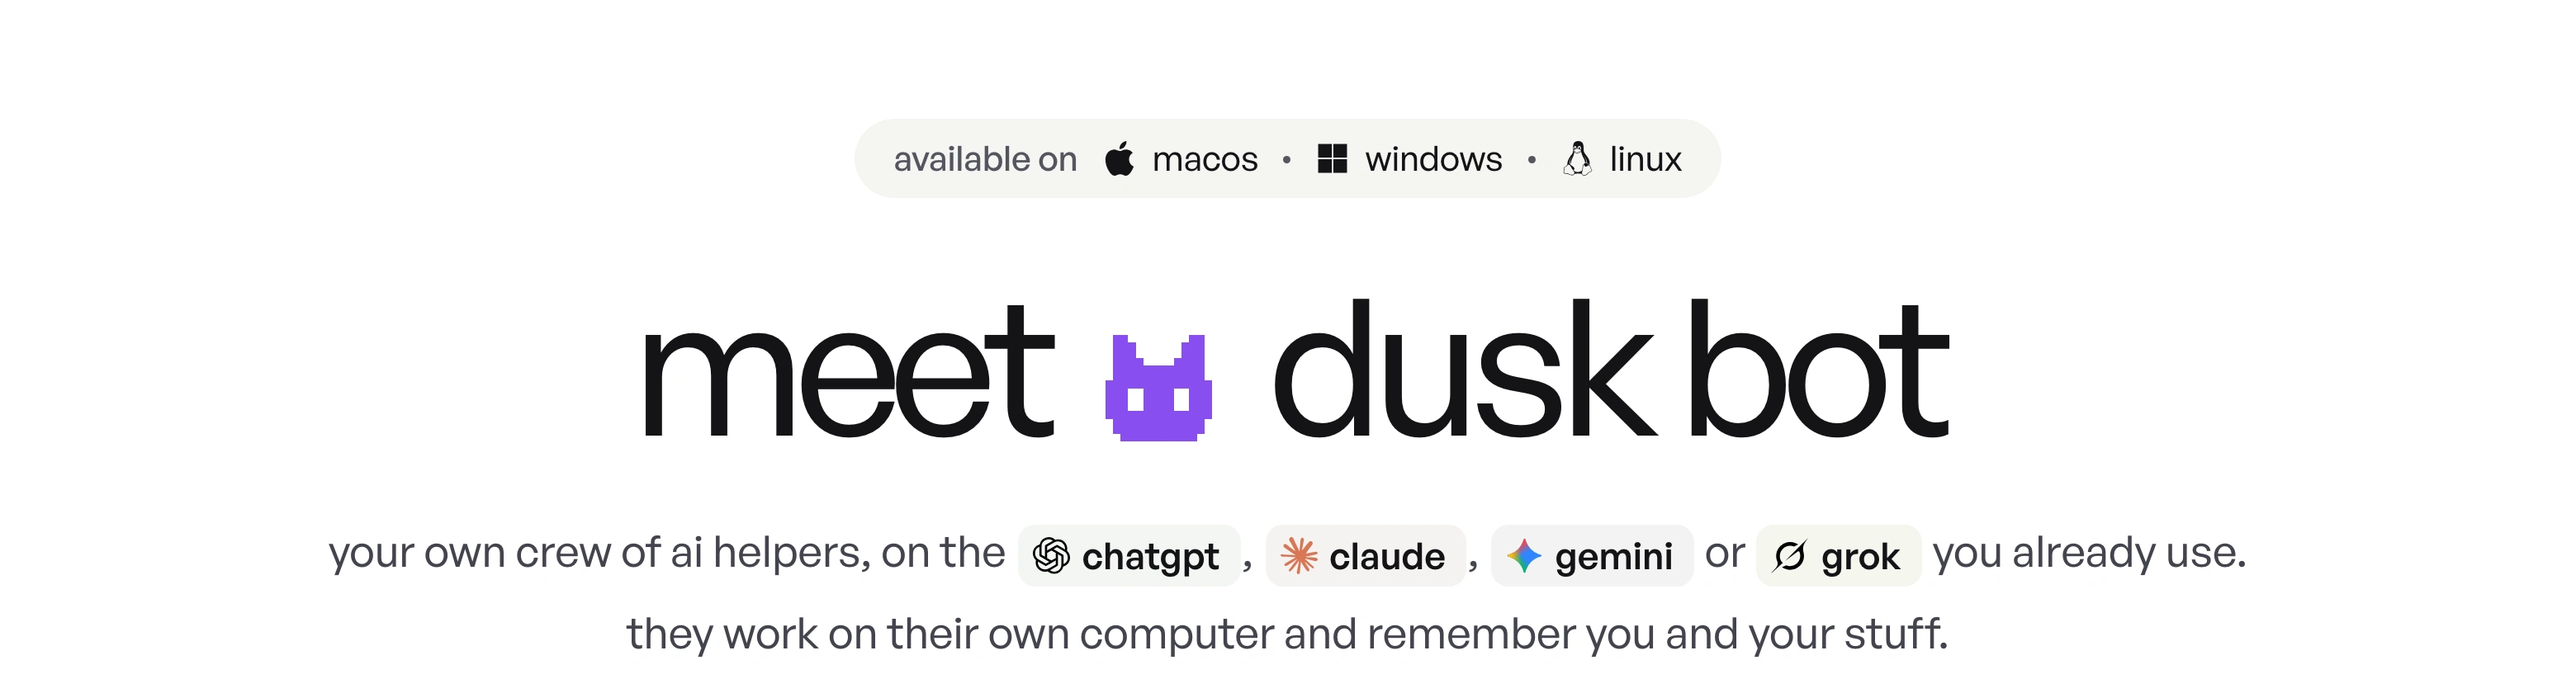
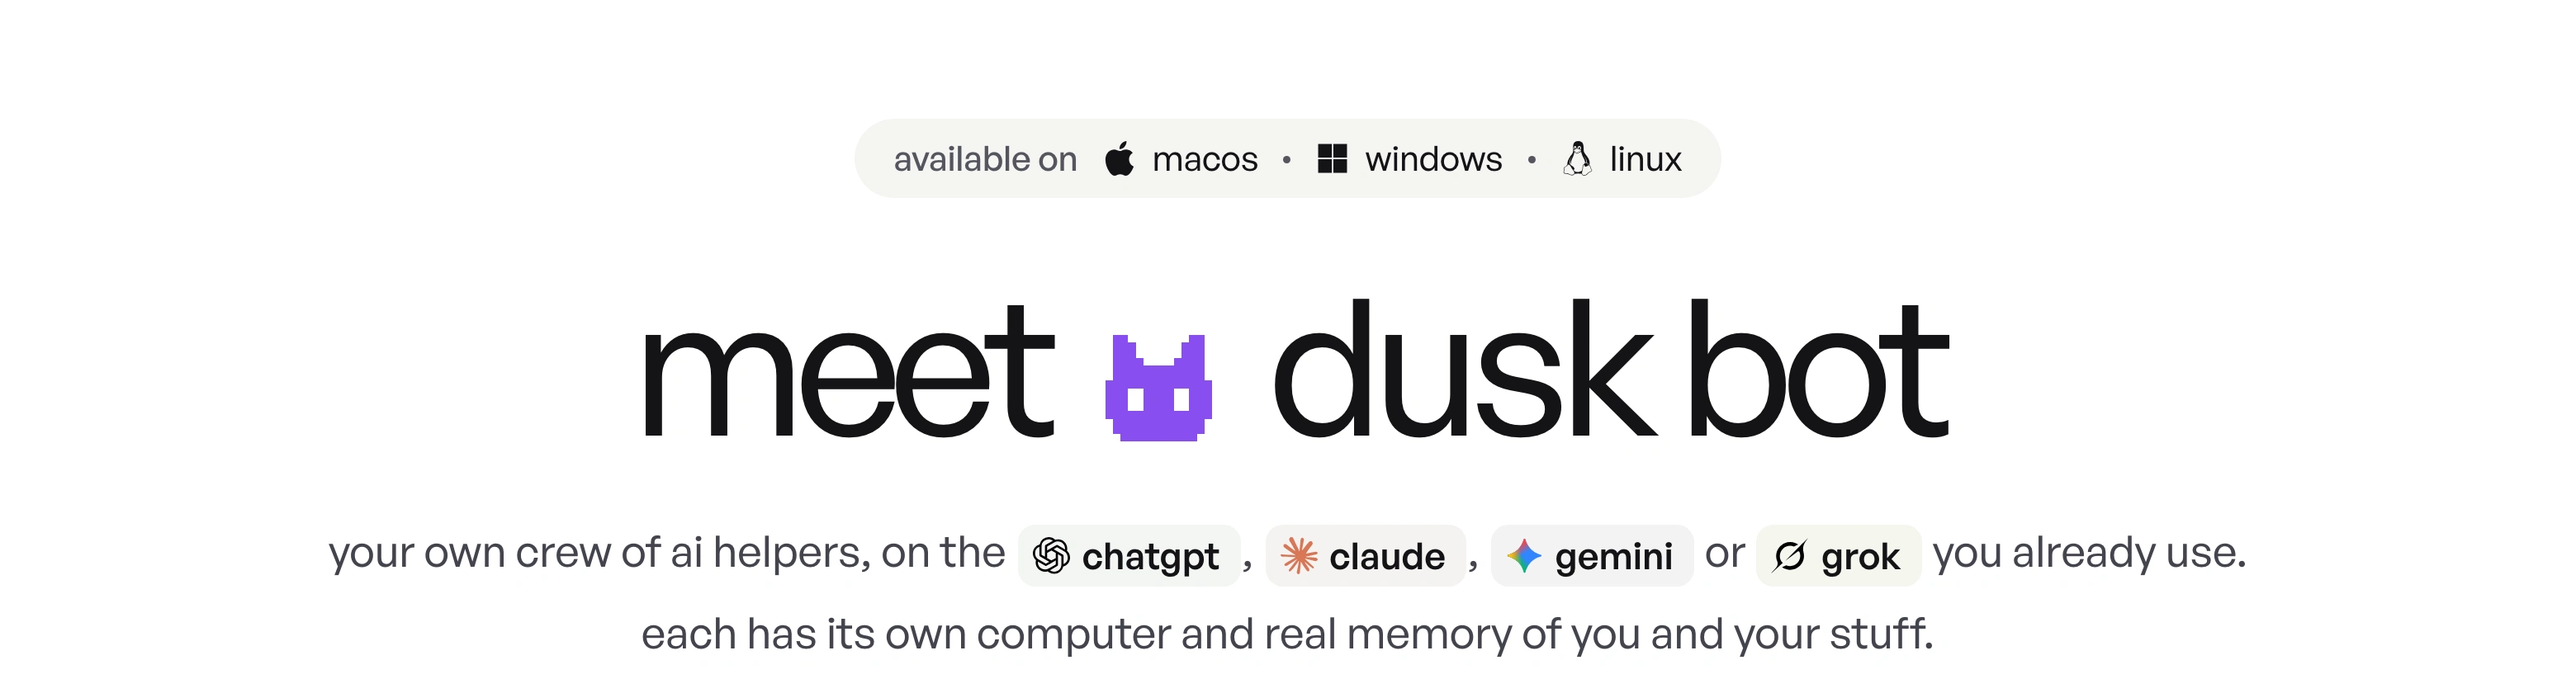
site: the hero says memory out loud, each bot has its own computer and real memory of you
Claude-Session: https://claude.ai/code/session_01U69uFLMgJgS6MvZ1Fa28ZA

Changed region(s): [[0.2487, 0.8976, 0.7462, 0.9595]]

diff --git a/apps/site/public/landing/index.html b/apps/site/public/landing/index.html
@@ -43,7 +43,7 @@
 <section class="hero">
   <a class="tag avail" href="#everywhere" data-mk-reveal><span class="avail-on">available on</span><span><svg class="os" aria-hidden="true" focusable="false" fill="currentColor" viewBox="0 0 24 24"><path d="M12.152 6.896c-.948 0-2.415-1.078-3.96-1.04-2.04.027-3.91 1.183-4.961 3.014-2.117 3.675-.546 9.103 1.519 12.09 1.013 1.454 2.208 3.09 3.792 3.039 1.52-.065 2.09-.987 3.935-.987 1.831 0 2.35.987 3.96.948 1.637-.026 2.676-1.48 3.676-2.948 1.156-1.688 1.636-3.325 1.662-3.415-.039-.013-3.182-1.221-3.22-4.857-.026-3.04 2.48-4.494 2.597-4.559-1.429-2.09-3.623-2.324-4.39-2.376-2-.156-3.675 1.09-4.61 1.09zM15.53 3.83c.843-1.012 1.4-2.427 1.245-3.83-1.207.052-2.662.805-3.532 1.818-.78.896-1.454 2.338-1.273 3.714 1.338.104 2.715-.688 3.559-1.701"/></svg>macos</span><i></i><span><svg class="os" aria-hidden="true" focusable="false" fill="currentColor" viewBox="-26 -26 308 308" ><g><path d="M0,2.84217094e-14 L121.32899,2.84217094e-14 L121.32899,121.32899 L0,121.32899 L0,2.84217094e-14 Z M134.67101,2.84217094e-14 L256,2.84217094e-14 L256,121.32899 L134.67101,121.32899 L134.67101,2.84217094e-14 Z M0,134.67101 L121.32899,134.67101 L121.32899,256 L0,256 L0,134.67101 Z M134.67101,134.67101 L256,134.67101 L256,256 L134.67101,256 L134.67101,134.67101 Z"/></g></svg>windows</span><i></i><span><svg class="os" aria-hidden="true" focusable="false" fill="currentColor" viewBox="0 0 24 24"><path d="M12.504 0c-.155 0-.315.008-.48.021-4.226.333-3.105 4.807-3.17 6.298-.076 1.092-.3 1.953-1.05 3.02-.885 1.051-2.127 2.75-2.716 4.521-.278.832-.41 1.684-.287 2.489a.424.424 0 00-.11.135c-.26.268-.45.6-.663.839-.199.199-.485.267-.797.4-.313.136-.658.269-.864.68-.09.189-.136.394-.132.602 0 .199.027.4.055.536.058.399.116.728.04.97-.249.68-.28 1.145-.106 1.484.174.334.535.47.94.601.81.2 1.91.135 2.774.6.926.466 1.866.67 2.616.47.526-.116.97-.464 1.208-.946.587-.003 1.23-.269 2.26-.334.699-.058 1.574.267 2.577.2.025.134.063.198.114.333l.003.003c.391.778 1.113 1.132 1.884 1.071.771-.06 1.592-.536 2.257-1.306.631-.765 1.683-1.084 2.378-1.503.348-.199.629-.469.649-.853.023-.4-.2-.811-.714-1.376v-.097l-.003-.003c-.17-.2-.25-.535-.338-.926-.085-.401-.182-.786-.492-1.046h-.003c-.059-.054-.123-.067-.188-.135a.357.357 0 00-.19-.064c.431-1.278.264-2.55-.173-3.694-.533-1.41-1.465-2.638-2.175-3.483-.796-1.005-1.576-1.957-1.56-3.368.026-2.152.236-6.133-3.544-6.139zm.529 3.405h.013c.213 0 .396.062.584.198.19.135.33.332.438.533.105.259.158.459.166.724 0-.02.006-.04.006-.06v.105a.086.086 0 01-.004-.021l-.004-.024a1.807 1.807 0 01-.15.706.953.953 0 01-.213.335.71.71 0 00-.088-.042c-.104-.045-.198-.064-.284-.133a1.312 1.312 0 00-.22-.066c.05-.06.146-.133.183-.198.053-.128.082-.264.088-.402v-.02a1.21 1.21 0 00-.061-.4c-.045-.134-.101-.2-.183-.333-.084-.066-.167-.132-.267-.132h-.016c-.093 0-.176.03-.262.132a.8.8 0 00-.205.334 1.18 1.18 0 00-.09.4v.019c.002.089.008.179.02.267-.193-.067-.438-.135-.607-.202a1.635 1.635 0 01-.018-.2v-.02a1.772 1.772 0 01.15-.768c.082-.22.232-.406.43-.533a.985.985 0 01.594-.2zm-2.962.059h.036c.142 0 .27.048.399.135.146.129.264.288.344.465.09.199.14.4.153.667v.004c.007.134.006.2-.002.266v.08c-.03.007-.056.018-.083.024-.152.055-.274.135-.393.2.012-.09.013-.18.003-.267v-.015c-.012-.133-.04-.2-.082-.333a.613.613 0 00-.166-.267.248.248 0 00-.183-.064h-.021c-.071.006-.13.04-.186.132a.552.552 0 00-.12.27.944.944 0 00-.023.33v.015c.012.135.037.2.08.334.046.134.098.2.166.268.01.009.02.018.034.024-.07.057-.117.07-.176.136a.304.304 0 01-.131.068 2.62 2.62 0 01-.275-.402 1.772 1.772 0 01-.155-.667 1.759 1.759 0 01.08-.668 1.43 1.43 0 01.283-.535c.128-.133.26-.2.418-.2zm1.37 1.706c.332 0 .733.065 1.216.399.293.2.523.269 1.052.468h.003c.255.136.405.266.478.399v-.131a.571.571 0 01.016.47c-.123.31-.516.643-1.063.842v.002c-.268.135-.501.333-.775.465-.276.135-.588.292-1.012.267a1.139 1.139 0 01-.448-.067 3.566 3.566 0 01-.322-.198c-.195-.135-.363-.332-.612-.465v-.005h-.005c-.4-.246-.616-.512-.686-.71-.07-.268-.005-.47.193-.6.224-.135.38-.271.483-.336.104-.074.143-.102.176-.131h.002v-.003c.169-.202.436-.47.839-.601.139-.036.294-.065.466-.065zm2.8 2.142c.358 1.417 1.196 3.475 1.735 4.473.286.534.855 1.659 1.102 3.024.156-.005.33.018.513.064.646-1.671-.546-3.467-1.089-3.966-.22-.2-.232-.335-.123-.335.59.534 1.365 1.572 1.646 2.757.13.535.16 1.104.021 1.67.067.028.135.06.205.067 1.032.534 1.413.938 1.23 1.537v-.043c-.06-.003-.12 0-.18 0h-.016c.151-.467-.182-.825-1.065-1.224-.915-.4-1.646-.336-1.77.465-.008.043-.013.066-.018.135-.068.023-.139.053-.209.064-.43.268-.662.669-.793 1.187-.13.533-.17 1.156-.205 1.869v.003c-.02.334-.17.838-.319 1.35-1.5 1.072-3.58 1.538-5.348.334a2.645 2.645 0 00-.402-.533 1.45 1.45 0 00-.275-.333c.182 0 .338-.03.465-.067a.615.615 0 00.314-.334c.108-.267 0-.697-.345-1.163-.345-.467-.931-.995-1.788-1.521-.63-.4-.986-.87-1.15-1.396-.165-.534-.143-1.085-.015-1.645.245-1.07.873-2.11 1.274-2.763.107-.065.037.135-.408.974-.396.751-1.14 2.497-.122 3.854a8.123 8.123 0 01.647-2.876c.564-1.278 1.743-3.504 1.836-5.268.048.036.217.135.289.202.218.133.38.333.59.465.21.201.477.335.876.335.039.003.075.006.11.006.412 0 .73-.134.997-.268.29-.134.52-.334.74-.4h.005c.467-.135.835-.402 1.044-.7zm2.185 8.958c.037.6.343 1.245.882 1.377.588.134 1.434-.333 1.791-.765l.211-.01c.315-.007.577.01.847.268l.003.003c.208.199.305.53.391.876.085.4.154.78.409 1.066.486.527.645.906.636 1.14l.003-.007v.018l-.003-.012c-.015.262-.185.396-.498.595-.63.401-1.746.712-2.457 1.57-.618.737-1.37 1.14-2.036 1.191-.664.053-1.237-.2-1.574-.898l-.005-.003c-.21-.4-.12-1.025.056-1.69.176-.668.428-1.344.463-1.897.037-.714.076-1.335.195-1.814.12-.465.308-.797.641-.984l.045-.022zm-10.814.049h.01c.053 0 .105.005.157.014.376.055.706.333 1.023.752l.91 1.664.003.003c.243.533.754 1.064 1.189 1.637.434.598.77 1.131.729 1.57v.006c-.057.744-.48 1.148-1.125 1.294-.645.135-1.52.002-2.395-.464-.968-.536-2.118-.469-2.857-.602-.369-.066-.61-.2-.723-.4-.11-.2-.113-.602.123-1.23v-.004l.002-.003c.117-.334.03-.752-.027-1.118-.055-.401-.083-.71.043-.94.16-.334.396-.4.69-.533.294-.135.64-.202.915-.47h.002v-.002c.256-.268.445-.601.668-.838.19-.201.38-.336.663-.336zm7.159-9.074c-.435.201-.945.535-1.488.535-.542 0-.97-.267-1.28-.466-.154-.134-.28-.268-.373-.335-.164-.134-.144-.333-.074-.333.109.016.129.134.199.2.096.066.215.2.36.333.292.2.68.467 1.167.467.485 0 1.053-.267 1.398-.466.195-.135.445-.334.648-.467.156-.136.149-.267.279-.267.128.016.034.134-.147.332a8.097 8.097 0 01-.69.468zm-1.082-1.583V5.64c-.006-.02.013-.042.029-.05.074-.043.18-.027.26.004.063 0 .16.067.15.135-.006.049-.085.066-.135.066-.055 0-.092-.043-.141-.068-.052-.018-.146-.008-.163-.065zm-.551 0c-.02.058-.113.049-.166.066-.047.025-.086.068-.14.068-.05 0-.13-.02-.136-.068-.01-.066.088-.133.15-.133.08-.031.184-.047.259-.005.019.009.036.03.03.05v.02h.003z"/></svg>linux</span><i class="bar-sep"></i><span><svg class="os" aria-hidden="true" focusable="false" fill="currentColor" viewBox="0 0 24 24"><path d="M12.152 6.896c-.948 0-2.415-1.078-3.96-1.04-2.04.027-3.91 1.183-4.961 3.014-2.117 3.675-.546 9.103 1.519 12.09 1.013 1.454 2.208 3.09 3.792 3.039 1.52-.065 2.09-.987 3.935-.987 1.831 0 2.35.987 3.96.948 1.637-.026 2.676-1.48 3.676-2.948 1.156-1.688 1.636-3.325 1.662-3.415-.039-.013-3.182-1.221-3.22-4.857-.026-3.04 2.48-4.494 2.597-4.559-1.429-2.09-3.623-2.324-4.39-2.376-2-.156-3.675 1.09-4.61 1.09zM15.53 3.83c.843-1.012 1.4-2.427 1.245-3.83-1.207.052-2.662.805-3.532 1.818-.78.896-1.454 2.338-1.273 3.714 1.338.104 2.715-.688 3.559-1.701"/></svg>ios</span><i></i><span><svg class="os" aria-hidden="true" focusable="false" fill="currentColor" viewBox="0 0 24 24"><path d="M18.4395 5.5586c-.675 1.1664-1.352 2.3318-2.0274 3.498-.0366-.0155-.0742-.0286-.1113-.043-1.8249-.6957-3.484-.8-4.42-.787-1.8551.0185-3.3544.4643-4.2597.8203-.084-.1494-1.7526-3.021-2.0215-3.4864a1.1451 1.1451 0 0 0-.1406-.1914c-.3312-.364-.9054-.4859-1.379-.203-.475.282-.7136.9361-.3886 1.5019 1.9466 3.3696-.0966-.2158 1.9473 3.3593.0172.031-.4946.2642-1.3926 1.0177C2.8987 12.176.452 14.772 0 18.9902h24c-.119-1.1108-.3686-2.099-.7461-3.0683-.7438-1.9118-1.8435-3.2928-2.7402-4.1836a12.1048 12.1048 0 0 0-2.1309-1.6875c.6594-1.122 1.312-2.2559 1.9649-3.3848.2077-.3615.1886-.7956-.0079-1.1191a1.1001 1.1001 0 0 0-.8515-.5332c-.5225-.0536-.9392.3128-1.0488.5449zm-.0391 8.461c.3944.5926.324 1.3306-.1563 1.6503-.4799.3197-1.188.0985-1.582-.4941-.3944-.5927-.324-1.3307.1563-1.6504.4727-.315 1.1812-.1086 1.582.4941zM7.207 13.5273c.4803.3197.5506 1.0577.1563 1.6504-.394.5926-1.1038.8138-1.584.4941-.48-.3197-.5503-1.0577-.1563-1.6504.4008-.6021 1.1087-.8106 1.584-.4941z"/></svg>android</span></a>
   <h1 data-mk-reveal>meet <svg class="bot c-violet h-mark" viewBox="0 0 100 100" shape-rendering="crispEdges" aria-hidden="true" data-px="kit"><g class="px" transform="translate(10 10) scale(5)"><path class="px-b" fill="currentColor" d="M2 2h2v1h-2zM12 2h2v1h-2zM2 3h3v2h-3zM11 3h3v2h-3zM2 5h4v1h-4zM10 5h4v1h-4zM2 6h12v2h-12zM1 8h14v1h-14zM1 9h3v3h-3zM6 9h4v3h-4zM12 9h3v3h-3zM1 12h14v1h-14zM2 13h12v2h-12zM3 15h10v1h-10z"/><path class="px-e" fill="#fff" d="M4 9h2v3h-2zM10 9h2v3h-2z"/></g></svg> dusk bot</h1>
-  <p class="lede" data-mk-reveal>your own crew of ai helpers, on the <span class="ms"><span class="m m-chatgpt"><img class="logo" src="/art/logos/chatgpt.svg?v=a595df6b" alt="" width="20" height="20" loading="lazy" decoding="async">chatgpt</span>, <span class="m m-claude"><img class="logo" src="/art/logos/claude.svg?v=a3101f30" alt="" width="20" height="20" loading="lazy" decoding="async">claude</span>, <span class="m m-gemini"><img class="logo" src="/art/logos/gemini.svg?v=8ab0a9ba" alt="" width="20" height="20" loading="lazy" decoding="async">gemini</span> or <span class="m m-grok"><img class="logo" src="/art/logos/grok.svg?v=9175fc90" alt="" width="20" height="20" loading="lazy" decoding="async">grok</span></span> you already use. they work on their own computer and remember you and your&nbsp;stuff.</p>
+  <p class="lede" data-mk-reveal>your own crew of ai helpers, on the <span class="ms"><span class="m m-chatgpt"><img class="logo" src="/art/logos/chatgpt.svg?v=a595df6b" alt="" width="20" height="20" loading="lazy" decoding="async">chatgpt</span>, <span class="m m-claude"><img class="logo" src="/art/logos/claude.svg?v=a3101f30" alt="" width="20" height="20" loading="lazy" decoding="async">claude</span>, <span class="m m-gemini"><img class="logo" src="/art/logos/gemini.svg?v=8ab0a9ba" alt="" width="20" height="20" loading="lazy" decoding="async">gemini</span> or <span class="m m-grok"><img class="logo" src="/art/logos/grok.svg?v=9175fc90" alt="" width="20" height="20" loading="lazy" decoding="async">grok</span></span> you already use. each has its own computer and real memory of you and your&nbsp;stuff.</p>
   <div class="actions" data-mk-reveal>
     <div class="split" data-dl>
       <a class="btn dark split-main" href="/download" data-mk-press><span class="dl-os"><svg class="os" aria-hidden="true" focusable="false" fill="currentColor" viewBox="0 0 24 24"><path d="M12.152 6.896c-.948 0-2.415-1.078-3.96-1.04-2.04.027-3.91 1.183-4.961 3.014-2.117 3.675-.546 9.103 1.519 12.09 1.013 1.454 2.208 3.09 3.792 3.039 1.52-.065 2.09-.987 3.935-.987 1.831 0 2.35.987 3.96.948 1.637-.026 2.676-1.48 3.676-2.948 1.156-1.688 1.636-3.325 1.662-3.415-.039-.013-3.182-1.221-3.22-4.857-.026-3.04 2.48-4.494 2.597-4.559-1.429-2.09-3.623-2.324-4.39-2.376-2-.156-3.675 1.09-4.61 1.09zM15.53 3.83c.843-1.012 1.4-2.427 1.245-3.83-1.207.052-2.662.805-3.532 1.818-.78.896-1.454 2.338-1.273 3.714 1.338.104 2.715-.688 3.559-1.701"/></svg></span><span class="dl-label">download for free</span></a><button class="btn dark split-more" type="button" aria-label="other downloads" aria-expanded="false" aria-controls="dl-menu"><svg class="i" viewBox="-0.5 -0.5 17 17" fill="none" aria-hidden="true"><path fill="currentColor" fill-rule="evenodd" d="M2.97 5.47a.75.75 0 0 1 1.06 0L8 9.44l3.97-3.97a.75.75 0 1 1 1.06 1.06l-4.5 4.5a.75.75 0 0 1-1.06 0l-4.5-4.5a.75.75 0 0 1 0-1.06" clip-rule="evenodd"/></svg></button>

diff --git a/apps/site/pages/home.html b/apps/site/pages/home.html
@@ -1,7 +1,7 @@
 <section class="hero">
   <a class="tag avail" href="#everywhere" data-mk-reveal><span class="avail-on">available on</span><span>{{os apple}}macos</span><i></i><span>{{os windows mono}}windows</span><i></i><span>{{os linux mono}}linux</span><i class="bar-sep"></i><span>{{os apple}}ios</span><i></i><span>{{os android mono}}android</span></a>
   <h1 data-mk-reveal>meet {{bot kit violet h-mark}} dusk bot</h1>
-  <p class="lede" data-mk-reveal>your own crew of ai helpers, on the <span class="ms"><span class="m m-chatgpt">{{logo chatgpt}}chatgpt</span>, <span class="m m-claude">{{logo claude}}claude</span>, <span class="m m-gemini">{{logo gemini}}gemini</span> or <span class="m m-grok">{{logo grok}}grok</span></span> you already use. they work on their own computer and remember you and your&nbsp;stuff.</p>
+  <p class="lede" data-mk-reveal>your own crew of ai helpers, on the <span class="ms"><span class="m m-chatgpt">{{logo chatgpt}}chatgpt</span>, <span class="m m-claude">{{logo claude}}claude</span>, <span class="m m-gemini">{{logo gemini}}gemini</span> or <span class="m m-grok">{{logo grok}}grok</span></span> you already use. each has its own computer and real memory of you and your&nbsp;stuff.</p>
   <div class="actions" data-mk-reveal>
     <div class="split" data-dl>
       <a class="btn dark split-main" href="/download" data-mk-press><span class="dl-os">{{os apple}}</span><span class="dl-label">download for free</span></a><button class="btn dark split-more" type="button" aria-label="other downloads" aria-expanded="false" aria-controls="dl-menu">{{i chevron-down}}</button>
